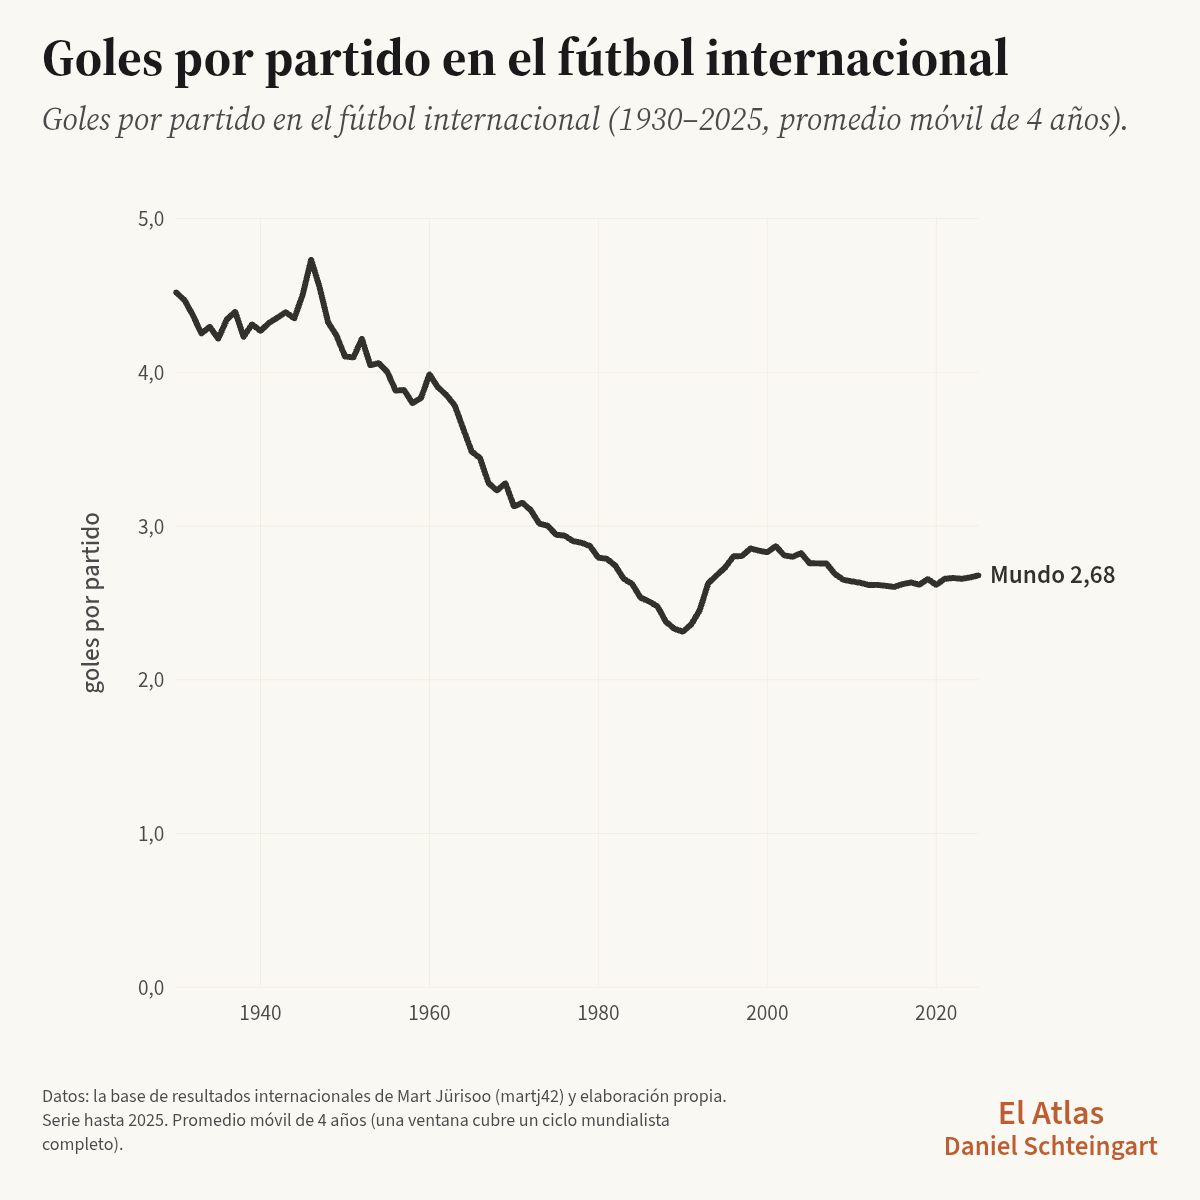
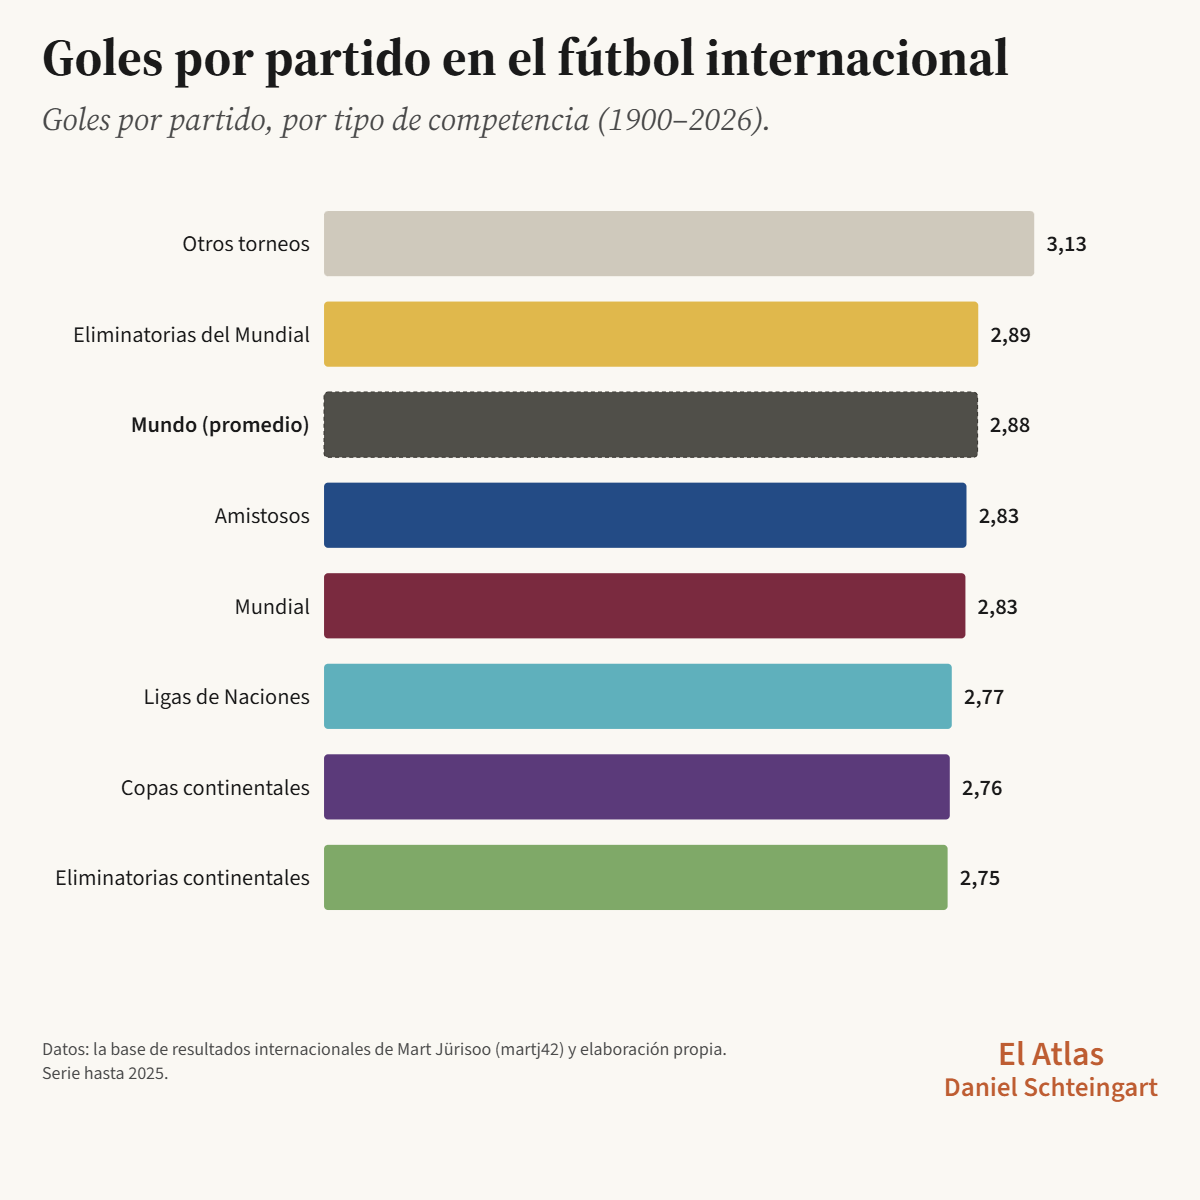
Chart 9: titulo base "Los goles del futbol internacional" + thumbs por competencia
Daniel eligio un titulo general (sirve para las 4 metricas del chart) en vez de la
historia temporal, y cambio el thumb al de "goles por partido por competencia".
- c9-title es/en actualizado; propagado a title/og/twitter del chart y al fallback
  de los indices.
- Thumbs chart-goles.png (ES) y chart-goles.en.png (EN): la vista Comparacion por
  competencia (Otros torneos 3,13 arriba, Mundial 2,83 en el peloton).
- Bump: chart-goles v=79, i18n de los indices v=76 (para que tome el titulo nuevo).

diff --git a/03b-partidos/chart-goles.html b/03b-partidos/chart-goles.html
@@ -3,17 +3,17 @@
 <head>
 <meta charset="UTF-8">
 <meta name="viewport" content="width=device-width, initial-scale=1.0">
-<title>La caída y el renacer del gol — El Atlas · Especial</title>
+<title>Los goles del fútbol internacional — El Atlas · Especial</title>
 <meta property="og:type" content="article">
 <meta property="og:site_name" content="El Atlas · Cartografías del desarrollo">
 <meta property="og:locale" content="es_AR">
 <meta property="og:url" content="https://dschteingart.github.io/el-atlas-charts/03b-partidos/chart-goles.html">
-<meta property="og:title" content="La caída y el renacer del gol — El Atlas · Especial">
+<meta property="og:title" content="Los goles del fútbol internacional — El Atlas · Especial">
 <meta property="og:description" content="Goles por partido en el fútbol internacional, 1872-2025. Filtrable por competencia y confederación.">
 <meta property="og:image" content="https://dschteingart.github.io/el-atlas-charts/03b-partidos/thumbs/chart-goles.png">
-<meta property="og:image:alt" content="La caída y el renacer del gol">
+<meta property="og:image:alt" content="Los goles del fútbol internacional">
 <meta name="twitter:card" content="summary_large_image">
-<meta name="twitter:title" content="La caída y el renacer del gol — El Atlas · Especial">
+<meta name="twitter:title" content="Los goles del fútbol internacional — El Atlas · Especial">
 <meta name="twitter:description" content="Goles por partido en el fútbol internacional, 1872-2025. Filtrable por competencia y confederación.">
 <meta name="twitter:image" content="https://dschteingart.github.io/el-atlas-charts/03b-partidos/thumbs/chart-goles.png">
 
@@ -109,7 +109,7 @@
   </header>
 
   <section class="chart-block" data-chart="9" data-editor-id="esp-goles">
-    <h2 class="chart-title" data-i18n="c9-title">La caída y el renacer del gol</h2>
+    <h2 class="chart-title" data-i18n="c9-title">Los goles del fútbol internacional</h2>
     <p class="chart-subtitle" data-i18n="c9-subtitle">Goles por partido en el fútbol internacional, 1872-2025.</p>
 
       <div class="m-controls">
@@ -204,21 +204,21 @@
 
 </div>
 
-<script src="../lib/regions.js?v=78"></script>
-<script src="../lib/scatter-render.js?v=78"></script>
-<script src="../lib/i18n.js?v=78"></script>
-<script src="./regions-fifa.js?v=78"></script>
-<script src="./i18n-issue.js?v=78"></script>
+<script src="../lib/regions.js?v=79"></script>
+<script src="../lib/scatter-render.js?v=79"></script>
+<script src="../lib/i18n.js?v=79"></script>
+<script src="./regions-fifa.js?v=79"></script>
+<script src="./i18n-issue.js?v=79"></script>
 <script src="../lib/utils.js?v=4"></script>
 <script src="../lib/country-names.js?v=2"></script>
-<script src="./data-goles.js?v=78"></script>
-<script src="./data-nombres.js?v=78"></script>
+<script src="./data-goles.js?v=79"></script>
+<script src="./data-nombres.js?v=79"></script>
 <script src="../lib/editor.js?v=1"></script>
-<script src="./ts-partidos.js?v=78"></script>
-<script src="./goles.js?v=78"></script>
+<script src="./ts-partidos.js?v=79"></script>
+<script src="./goles.js?v=79"></script>
 <script src="../lib/png-export.js?v=2"></script>
 <script>
-  window.__ESP_V = '78';
+  window.__ESP_V = '79';
   initGoles();
   applyI18n();
   if (window.__atlasRedraw) window.__atlasRedraw();
@@ -227,6 +227,6 @@
   });
 </script>
 <div id="chart-nav"></div>
-<script src="./nav.js?v=78"></script>
+<script src="./nav.js?v=79"></script>
 </body>
 </html>

diff --git a/03b-partidos/index-eng.html b/03b-partidos/index-eng.html
@@ -167,7 +167,7 @@
     <a class="idx-card" href="./chart-goles.html?lang=en">
       <img class="idx-thumb" src="./thumbs/chart-goles.png" data-thumb-es="./thumbs/chart-goles.png" data-thumb-en="./thumbs/chart-goles.en.png" alt="" loading="lazy" onerror="this.remove()">
       <span class="idx-card-num">Gráfico 9</span>
-      <h2 data-i18n="c9-title">La caída y el renacer del gol</h2>
+      <h2 data-i18n="c9-title">Los goles del fútbol internacional</h2>
       <span class="idx-card-go" data-i18n="index-see">Ver gráfico →</span>
     </a>
 
@@ -183,10 +183,10 @@
 
 </div>
 
-<script src="../lib/regions.js?v=75"></script>
-<script src="../lib/i18n.js?v=75"></script>
-<script src="./regions-fifa.js?v=75"></script>
-<script src="./i18n-issue.js?v=75"></script>
+<script src="../lib/regions.js?v=76"></script>
+<script src="../lib/i18n.js?v=76"></script>
+<script src="./regions-fifa.js?v=76"></script>
+<script src="./i18n-issue.js?v=76"></script>
 <script>
   // "Gráfico N" / "Chart N": números de tarjeta estáticos, seteados por JS.
   function applyCardNums() {
@@ -209,6 +209,6 @@
   setupLangToggle(function () { applyThumbLang(); applyCardNums(); });
 </script>
 <div id="chart-nav"></div>
-<script src="./nav.js?v=75"></script>
+<script src="./nav.js?v=76"></script>
 </body>
 </html>

diff --git a/03b-partidos/index.html b/03b-partidos/index.html
@@ -165,7 +165,7 @@
     <a class="idx-card" href="./chart-goles.html">
       <img class="idx-thumb" src="./thumbs/chart-goles.png" data-thumb-es="./thumbs/chart-goles.png" data-thumb-en="./thumbs/chart-goles.en.png" alt="" loading="lazy" onerror="this.remove()">
       <span class="idx-card-num">Gráfico 9</span>
-      <h2 data-i18n="c9-title">La caída y el renacer del gol</h2>
+      <h2 data-i18n="c9-title">Los goles del fútbol internacional</h2>
       <span class="idx-card-go" data-i18n="index-see">Ver gráfico →</span>
     </a>
 
@@ -181,10 +181,10 @@
 
 </div>
 
-<script src="../lib/regions.js?v=75"></script>
-<script src="../lib/i18n.js?v=75"></script>
-<script src="./regions-fifa.js?v=75"></script>
-<script src="./i18n-issue.js?v=75"></script>
+<script src="../lib/regions.js?v=76"></script>
+<script src="../lib/i18n.js?v=76"></script>
+<script src="./regions-fifa.js?v=76"></script>
+<script src="./i18n-issue.js?v=76"></script>
 <script>
   // "Gráfico N" / "Chart N": los números de tarjeta son estáticos (sin data-i18n),
   // los seteamos por JS según LANG (numerando por orden).
@@ -203,6 +203,6 @@
   setupLangToggle(function () { applyThumbLang(); applyCardNums(); });
 </script>
 <div id="chart-nav"></div>
-<script src="./nav.js?v=75"></script>
+<script src="./nav.js?v=76"></script>
 </body>
 </html>

diff --git a/03b-partidos/i18n-issue.js b/03b-partidos/i18n-issue.js
@@ -267,7 +267,7 @@ const ISSUE_I18N = {
     'c8-sources':          'Datos: la base de resultados internacionales de Mart Jürisoo (martj42) y elaboración propia. Solo partidos entre selecciones de confederaciones distintas. Efectividad = puntos obtenidos sobre posibles, con la regla actual (3 por victoria, 1 por empate, 0 por derrota) aplicada a toda la serie. La confederación de cada selección es la vigente en la fecha del partido. Serie hasta 2025.',
 
     // ---- Chart 9: goles por partido / diferencia de gol
-    'c9-title':            'La caída y el renacer del gol',
+    'c9-title':            'Los goles del fútbol internacional',
     'c9-title-neutral':    'Goles por partido en el fútbol internacional',
     'c9-subtitle':         'Goles por partido en el fútbol internacional, 1872-2025.',
     'c9-metric-label':     'Medida',
@@ -553,7 +553,7 @@ const ISSUE_I18N = {
     'c8-sources':          'Data: Mart Jürisoo (martj42), own elaboration. Only matches between teams from different confederations. Effectiveness = points won over points available, with the current rule (3 for a win, 1 for a draw, 0 for a loss) applied across the whole series. Each team\'s confederation is the one in force on the match date. Series through 2025.',
 
     // ---- Chart 9: goals per match / goal difference
-    'c9-title':            'The fall and revival of the goal',
+    'c9-title':            'Goals in international football',
     'c9-title-neutral':    'Goals per match in international football',
     'c9-subtitle':         'Goals per match in international football, 1872-2025.',
     'c9-metric-label':     'Metric',